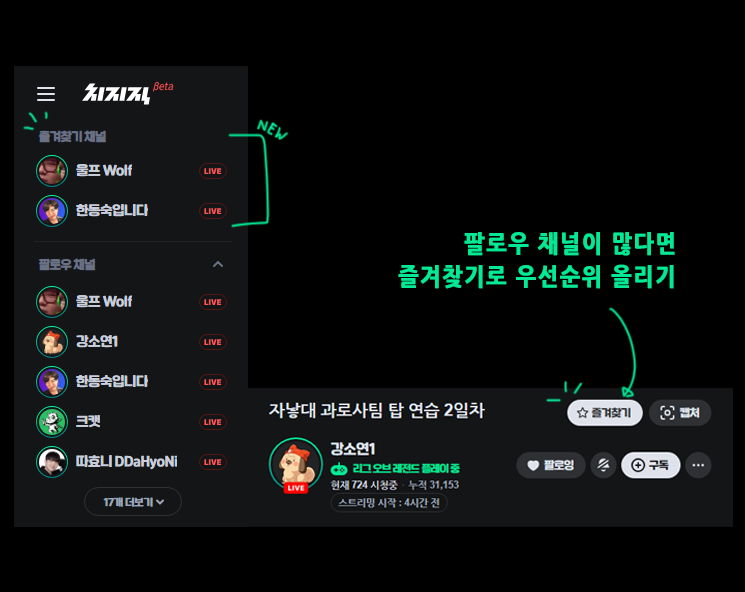
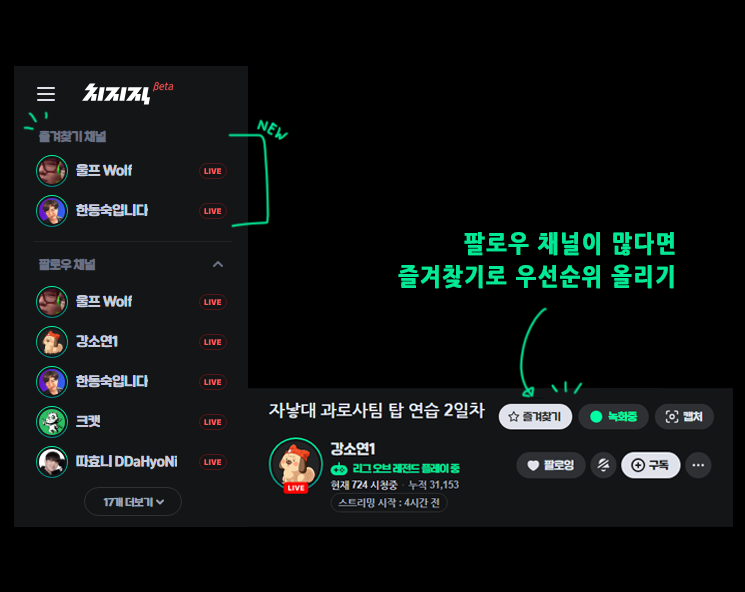
feat(record): 생방송 녹화

Changed region(s): [[0.6483, 0.5473, 0.957, 0.7297], [0.8027, 0.5169, 0.8336, 0.5473], [0.7101, 0.5169, 0.7409, 0.5473]]

diff --git a/src/components/button/RecordButton/RecordButton.tsx b/src/components/button/RecordButton/RecordButton.tsx
@@ -1,0 +1,126 @@
+import { useRef, useState } from "react";
+// import { logError } from "../../../utils/log";
+import "./RecordButton.css";
+
+interface Video extends HTMLMediaElement {
+  captureStream: () => MediaStream;
+}
+
+export default function RecordButton() {
+  const [recording, setRecording] = useState<number>(0); // 0: 준비상태   1: 녹화중    2: 저장중
+  const recordedVideoRef = useRef<HTMLVideoElement>(null);
+  const mediaRecorderRef = useRef<MediaRecorder | null>(null);
+  const recordedChunksRef = useRef<Blob[]>([]);
+
+  const clickedHandler = (e: React.MouseEvent<HTMLButtonElement>) => {
+    e.preventDefault();
+    console.log(recording);
+    if (!recording) {
+      startRecording();
+    } else {
+      stopRecording();
+    }
+  };
+
+  const startRecording = async () => {
+    const $video = document.querySelector(
+      ".webplayer-internal-video"
+    ) as Video | null;
+
+    if (!$video || recording !== 0) return;
+
+    $video.muted = true;
+    // $video.volume = 0.5;
+
+    const stream = $video.captureStream();
+    mediaRecorderRef.current = new MediaRecorder(stream, {
+      mimeType: "video/webm",
+    });
+
+    mediaRecorderRef.current.ondataavailable = (event) => {
+      if (event.data.size > 0) {
+        recordedChunksRef.current.push(event.data);
+      }
+    };
+
+    mediaRecorderRef.current.onstop = () => {
+      const blob = new Blob(recordedChunksRef.current, { type: "video/webm" });
+      if (recordedVideoRef.current) {
+        recordedVideoRef.current.src = URL.createObjectURL(blob);
+
+        recordedVideoRef.current.addEventListener(
+          "loadedmetadata",
+          () => {
+            void (async () => {
+              setRecording(2);
+
+              await new Promise((resolve) => setTimeout(resolve, 1000));
+
+              const a = document.createElement("a");
+              a.href = URL.createObjectURL(blob);
+              a.download = `chzzk_plus_v${new Date().getTime()}.webm`;
+              a.click();
+
+              setRecording(0);
+            })();
+          },
+          { once: true }
+        );
+      }
+      recordedChunksRef.current = [];
+    };
+
+    mediaRecorderRef.current.start();
+    setRecording(1);
+  };
+
+  function stopRecording() {
+    if (mediaRecorderRef.current) {
+      mediaRecorderRef.current.stop();
+      // setRecording(0);
+    }
+  }
+
+  return (
+    <>
+      <video
+        ref={recordedVideoRef}
+        style={{ display: "none" }}
+        width="1280"
+        height="720"
+      />
+
+      <button
+        className={`record-btn ${recording === 1 && "recording"}`}
+        onClick={clickedHandler}
+      >
+        <svg
+          xmlns="http://www.w3.org/2000/svg"
+          className="icon icon-tabler icon-tabler-player-record-filled"
+          width="24"
+          height="24"
+          viewBox="0 0 24 24"
+          stroke-width="2"
+          stroke="currentColor"
+          fill="none"
+          stroke-linecap="round"
+          stroke-linejoin="round"
+        >
+          <path stroke="none" d="M0 0h24v24H0z" fill="none" />
+          <path
+            d="M8 5.072a8 8 0 1 1 -3.995 7.213l-.005 -.285l.005 -.285a8 8 0 0 1 3.995 -6.643z"
+            stroke-width="0"
+            fill="currentColor"
+          />
+        </svg>
+        {
+          {
+            0: "녹화",
+            1: "녹화중",
+            2: "저장중",
+          }[recording]
+        }
+      </button>
+    </>
+  );
+}

diff --git a/src/page/live.ts b/src/page/live.ts
@@ -30,6 +30,10 @@ import {
 } from "../constants/storage";
 import LiveHelper from "../components/liveHelper/LiveHelper";
 
+interface Video extends HTMLMediaElement {
+  captureStream: () => MediaStream;
+}
+
 export const editLivePage = () => {
   if (!isLivePage()) return;
 
@@ -96,6 +100,78 @@ export const editLivePage = () => {
       $liveTitle.appendChild($liveHelper);
       createReactElement($liveHelper, LiveHelper);
     }
+
+    let mediaRecorder: MediaRecorder | null = null;
+    let recordedChunks: Blob[] = [];
+
+    const startRecording = () => {
+      const videoElement = document.getElementById("asdf") as Video | null;
+
+      if (!videoElement) {
+        console.error("Video element with 'asdf' id not found");
+        return;
+      }
+
+      const stream = videoElement.captureStream();
+      mediaRecorder = new MediaRecorder(stream);
+
+      mediaRecorder.ondataavailable = (event) => {
+        if (event.data.size > 0) {
+          recordedChunks.push(event.data);
+        }
+      };
+
+      mediaRecorder.onstop = () => {
+        const blob = new Blob(recordedChunks, { type: "video/mp4" });
+        const recordedVideo = document.getElementById(
+          "recordedVideo"
+        ) as HTMLVideoElement | null;
+
+        if (recordedVideo) {
+          recordedVideo.src = URL.createObjectURL(blob);
+        }
+
+        recordedChunks = [];
+      };
+
+      mediaRecorder.start();
+    };
+
+    const stopRecording = () => {
+      if (mediaRecorder) {
+        mediaRecorder.stop();
+      }
+    };
+
+    const saveRecording = () => {
+      const a = document.createElement("a");
+      document.body.appendChild(a);
+      a.style.display = "none";
+
+      const blob = new Blob(recordedChunks, { type: "video/mp4" });
+      const url = URL.createObjectURL(blob);
+
+      a.href = url;
+      a.download = "recorded-video.mp4";
+      a.click();
+
+      window.URL.revokeObjectURL(url);
+    };
+
+    // Button event listeners
+    document
+      .getElementById("startStopButton")
+      ?.addEventListener("click", () => {
+        if (mediaRecorder && mediaRecorder.state === "recording") {
+          stopRecording();
+        } else {
+          startRecording();
+        }
+      });
+
+    document
+      .getElementById("saveButton")
+      ?.addEventListener("click", saveRecording);
   }
 
   // Feat: Barricade (이벤트 방해 모드) =======================================================

diff --git a/src/components/button/RecordButton/RecordButton.css b/src/components/button/RecordButton/RecordButton.css
@@ -1,0 +1,30 @@
+.record-btn {
+  background-color: #2e3033;
+  color: #dfe2ea;
+  padding-left: 12px;
+  padding-right: 16px;
+  border-radius: 17px;
+  height: 34px;
+  -ms-flex-align: center;
+  -ms-flex-pack: center;
+  align-items: center;
+  display: -ms-inline-flexbox;
+  display: inline-flex;
+  font-family: Sandoll Nemony2, Apple SD Gothic NEO, Helvetica Neue, Helvetica,
+    나눔고딕, NanumGothic, Malgun Gothic, 맑은 고딕, 굴림, gulim, 새굴림,
+    noto sans, 돋움, Dotum, sans-serif;
+  gap: 0 4px;
+  justify-content: center;
+  letter-spacing: -0.3px;
+  line-height: 0;
+  outline: none;
+  position: relative;
+
+  cursor: pointer;
+}
+.record-btn:hover {
+  background-color: #434447;
+}
+.record-btn.recording {
+  color: rgb(0, 255, 162);
+}

diff --git a/src/components/liveHelper/LiveHelper.tsx b/src/components/liveHelper/LiveHelper.tsx
@@ -1,5 +1,6 @@
 import CaptureButton from "../button/CaptureButton/CaptureButton";
 import FavoriteButton from "../button/FavoriteButton/FavoriteButton";
+import RecordButton from "../button/RecordButton/RecordButton";
 
 import "./LiveHelper.css";
 
@@ -7,6 +8,7 @@ export default function LiveHelper() {
   return (
     <div className="czp-live-helper">
       <FavoriteButton />
+      <RecordButton />
       <CaptureButton />
     </div>
   );

diff --git a/src/components/button/CaptureButton/CaptureButton.tsx b/src/components/button/CaptureButton/CaptureButton.tsx
@@ -33,8 +33,8 @@ export default function CaptureButton() {
       <svg
         xmlns="http://www.w3.org/2000/svg"
         className="icon icon-tabler icon-tabler-capture"
-        width="24"
-        height="24"
+        width="22"
+        height="22"
         viewBox="0 0 24 24"
         stroke-width="2"
         stroke="currentColor"

diff --git a/README.md b/README.md
@@ -20,12 +20,13 @@
 
 1.  PIP 모드 버튼
 2.  방송 미리보기
-3.  방송 화면 캡처 저장
-4.  치즈 제거 모드
-5.  채팅 색상 모드
-6.  채팅 크기 조절
-7.  방송 단축키
-8.  즐겨찾기 (팔로우 채널 중 우선순위 올리기)
+3.  방송 화면 캡처저장
+4.  생방송 녹화
+5.  치즈 제거 모드
+6.  채팅 색상 모드
+7.  채팅 크기 조절
+8.  방송 단축키
+9.  즐겨찾기 (팔로우 채널 중 우선순위 올리기)
 
 ### 1. PIP 모드 버튼
 
@@ -41,6 +42,8 @@
 
 - 캡처 : 실시간 화면을 캡처하여 저장합니다.
 
+- 녹화 : 실시간 생방송을 녹화하여 저장합니다.
+
 - 즐겨찾기 : 팔로우 채널 중 즐겨찾기로 우선순위를 올립니다.
 
 ### 4. 채팅 색상
@@ -54,11 +57,6 @@
 > 트위치의 경우 채팅 색상 조절에 BM에 포함되어 있습니다.
 >
 > 치지직 역시 추가 될 경우 기능이 삭제 혹은 변경 될 수 있습니다.
-
-## 고려중
-
-1. 팔로우 채널 우선순위 순위
-2. 품질 조절 기타 등등
 
 ## 알림사항
 
